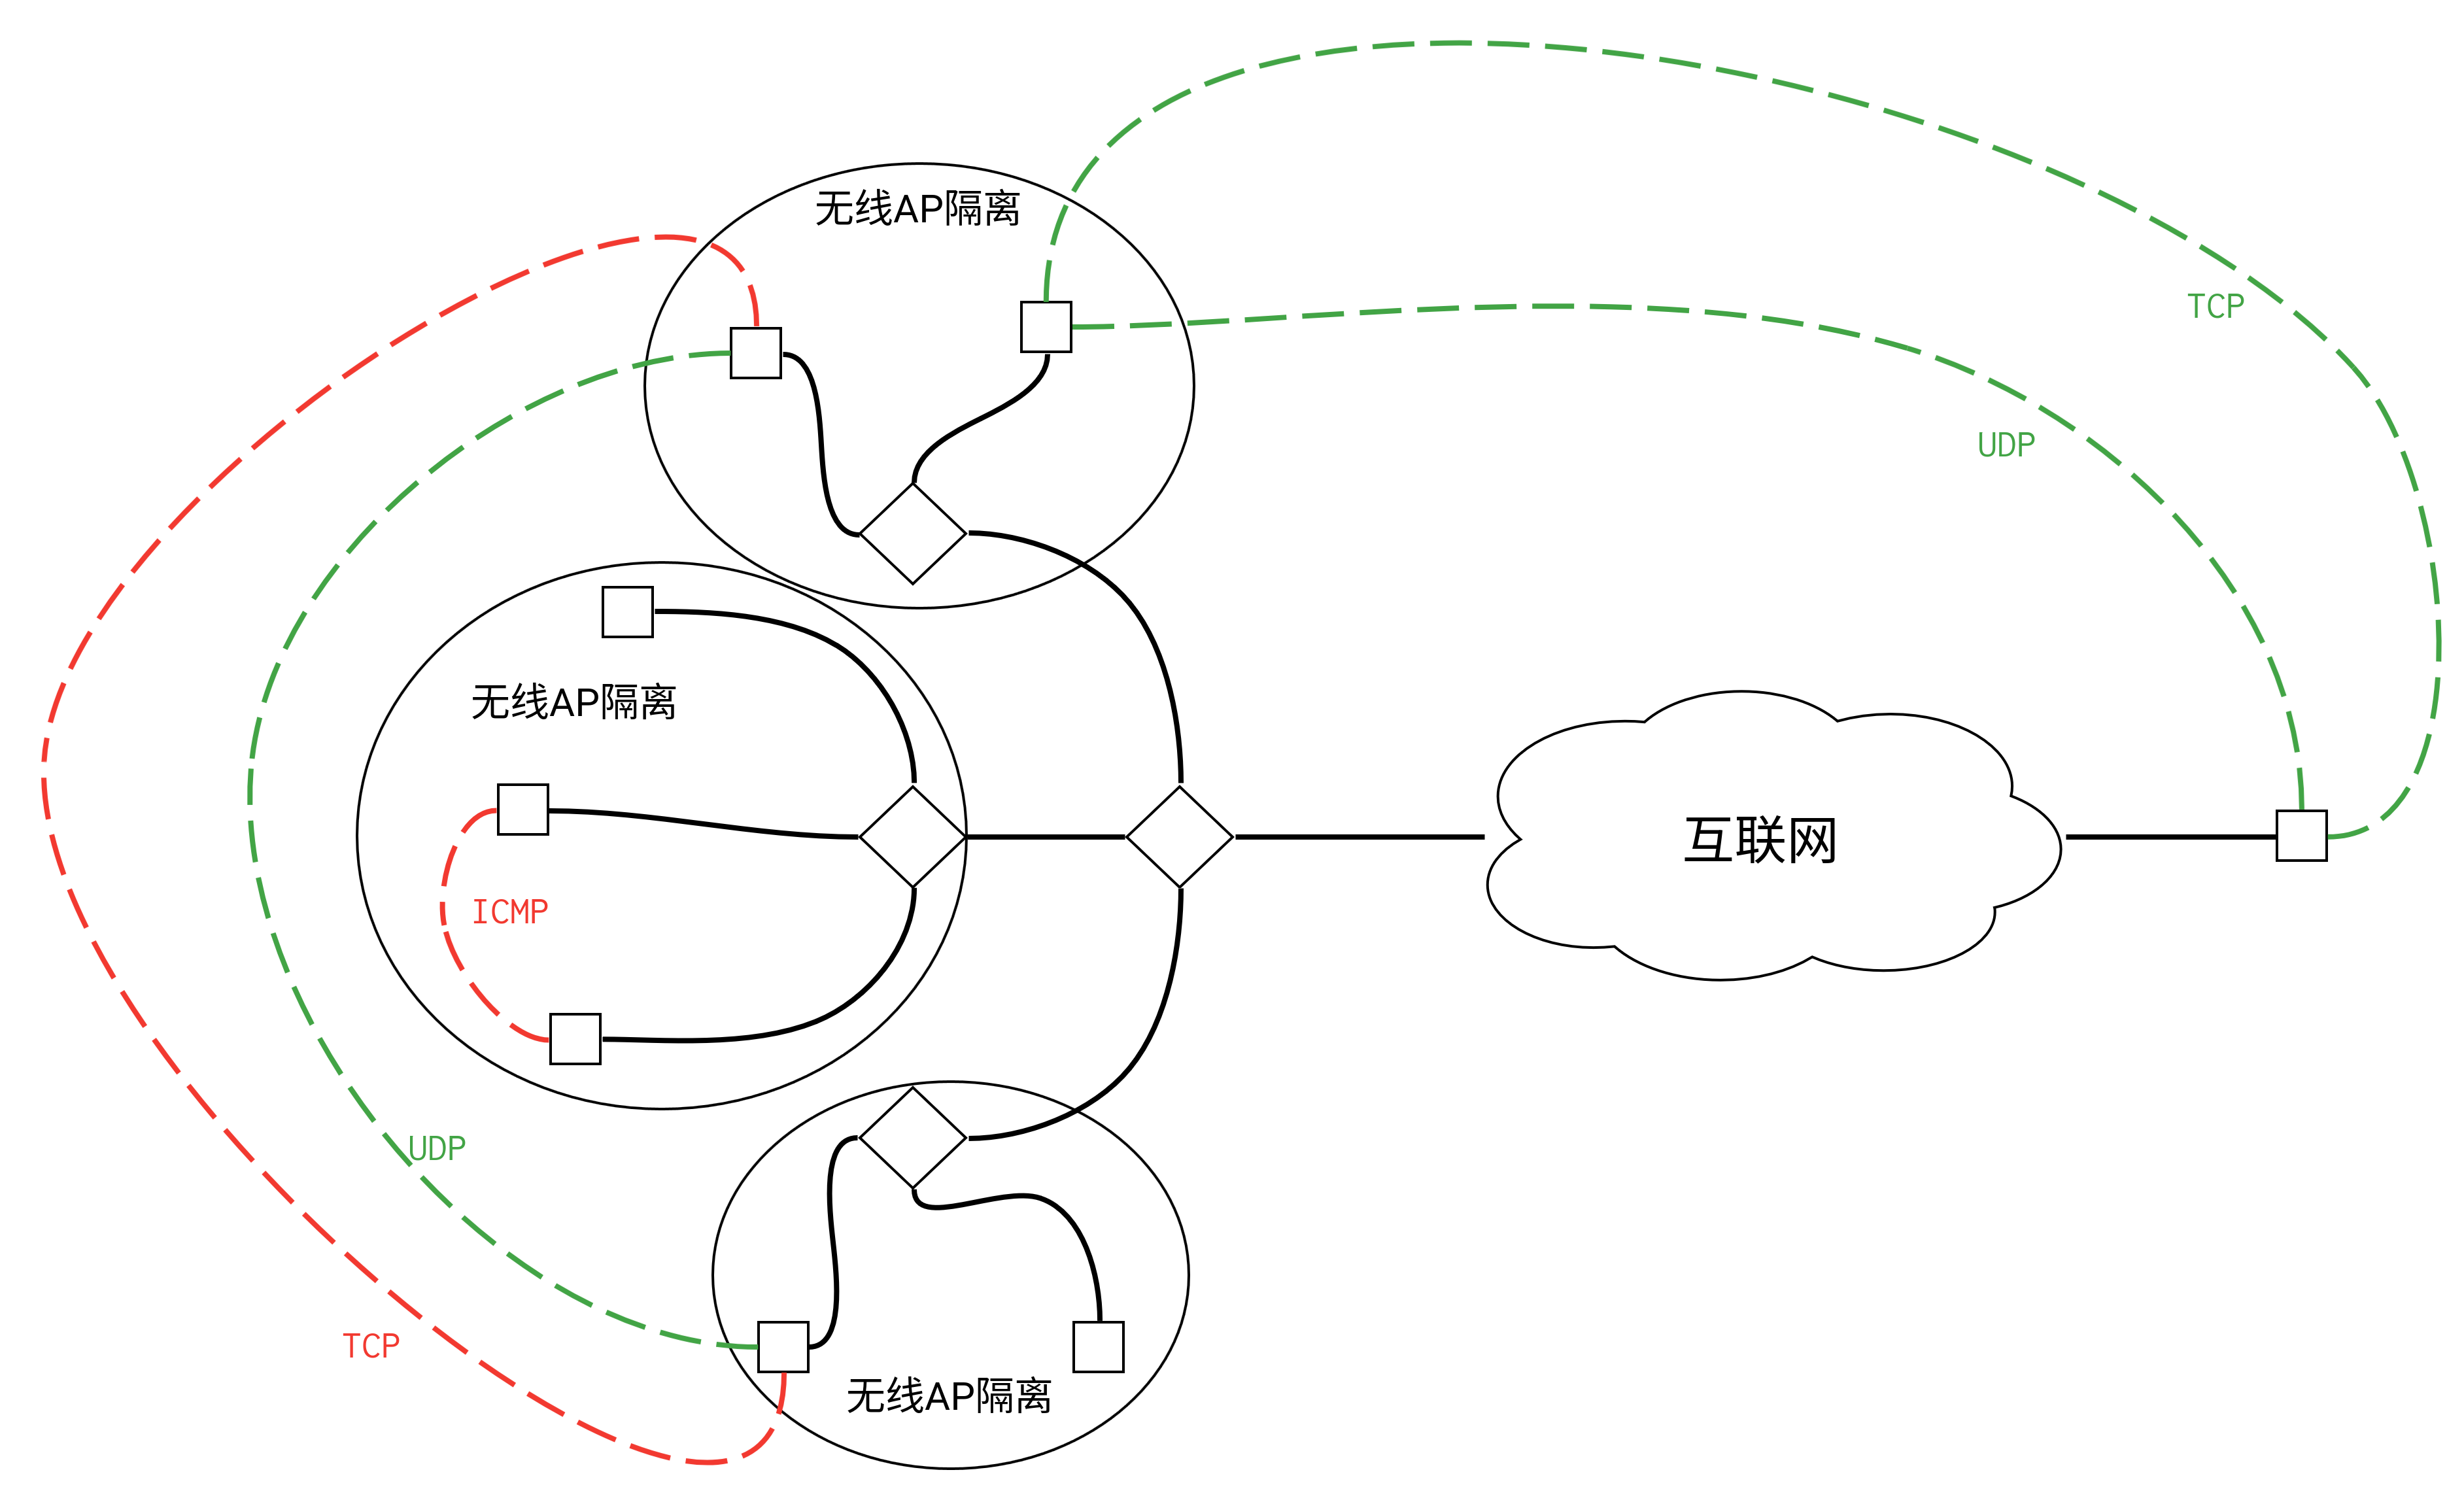
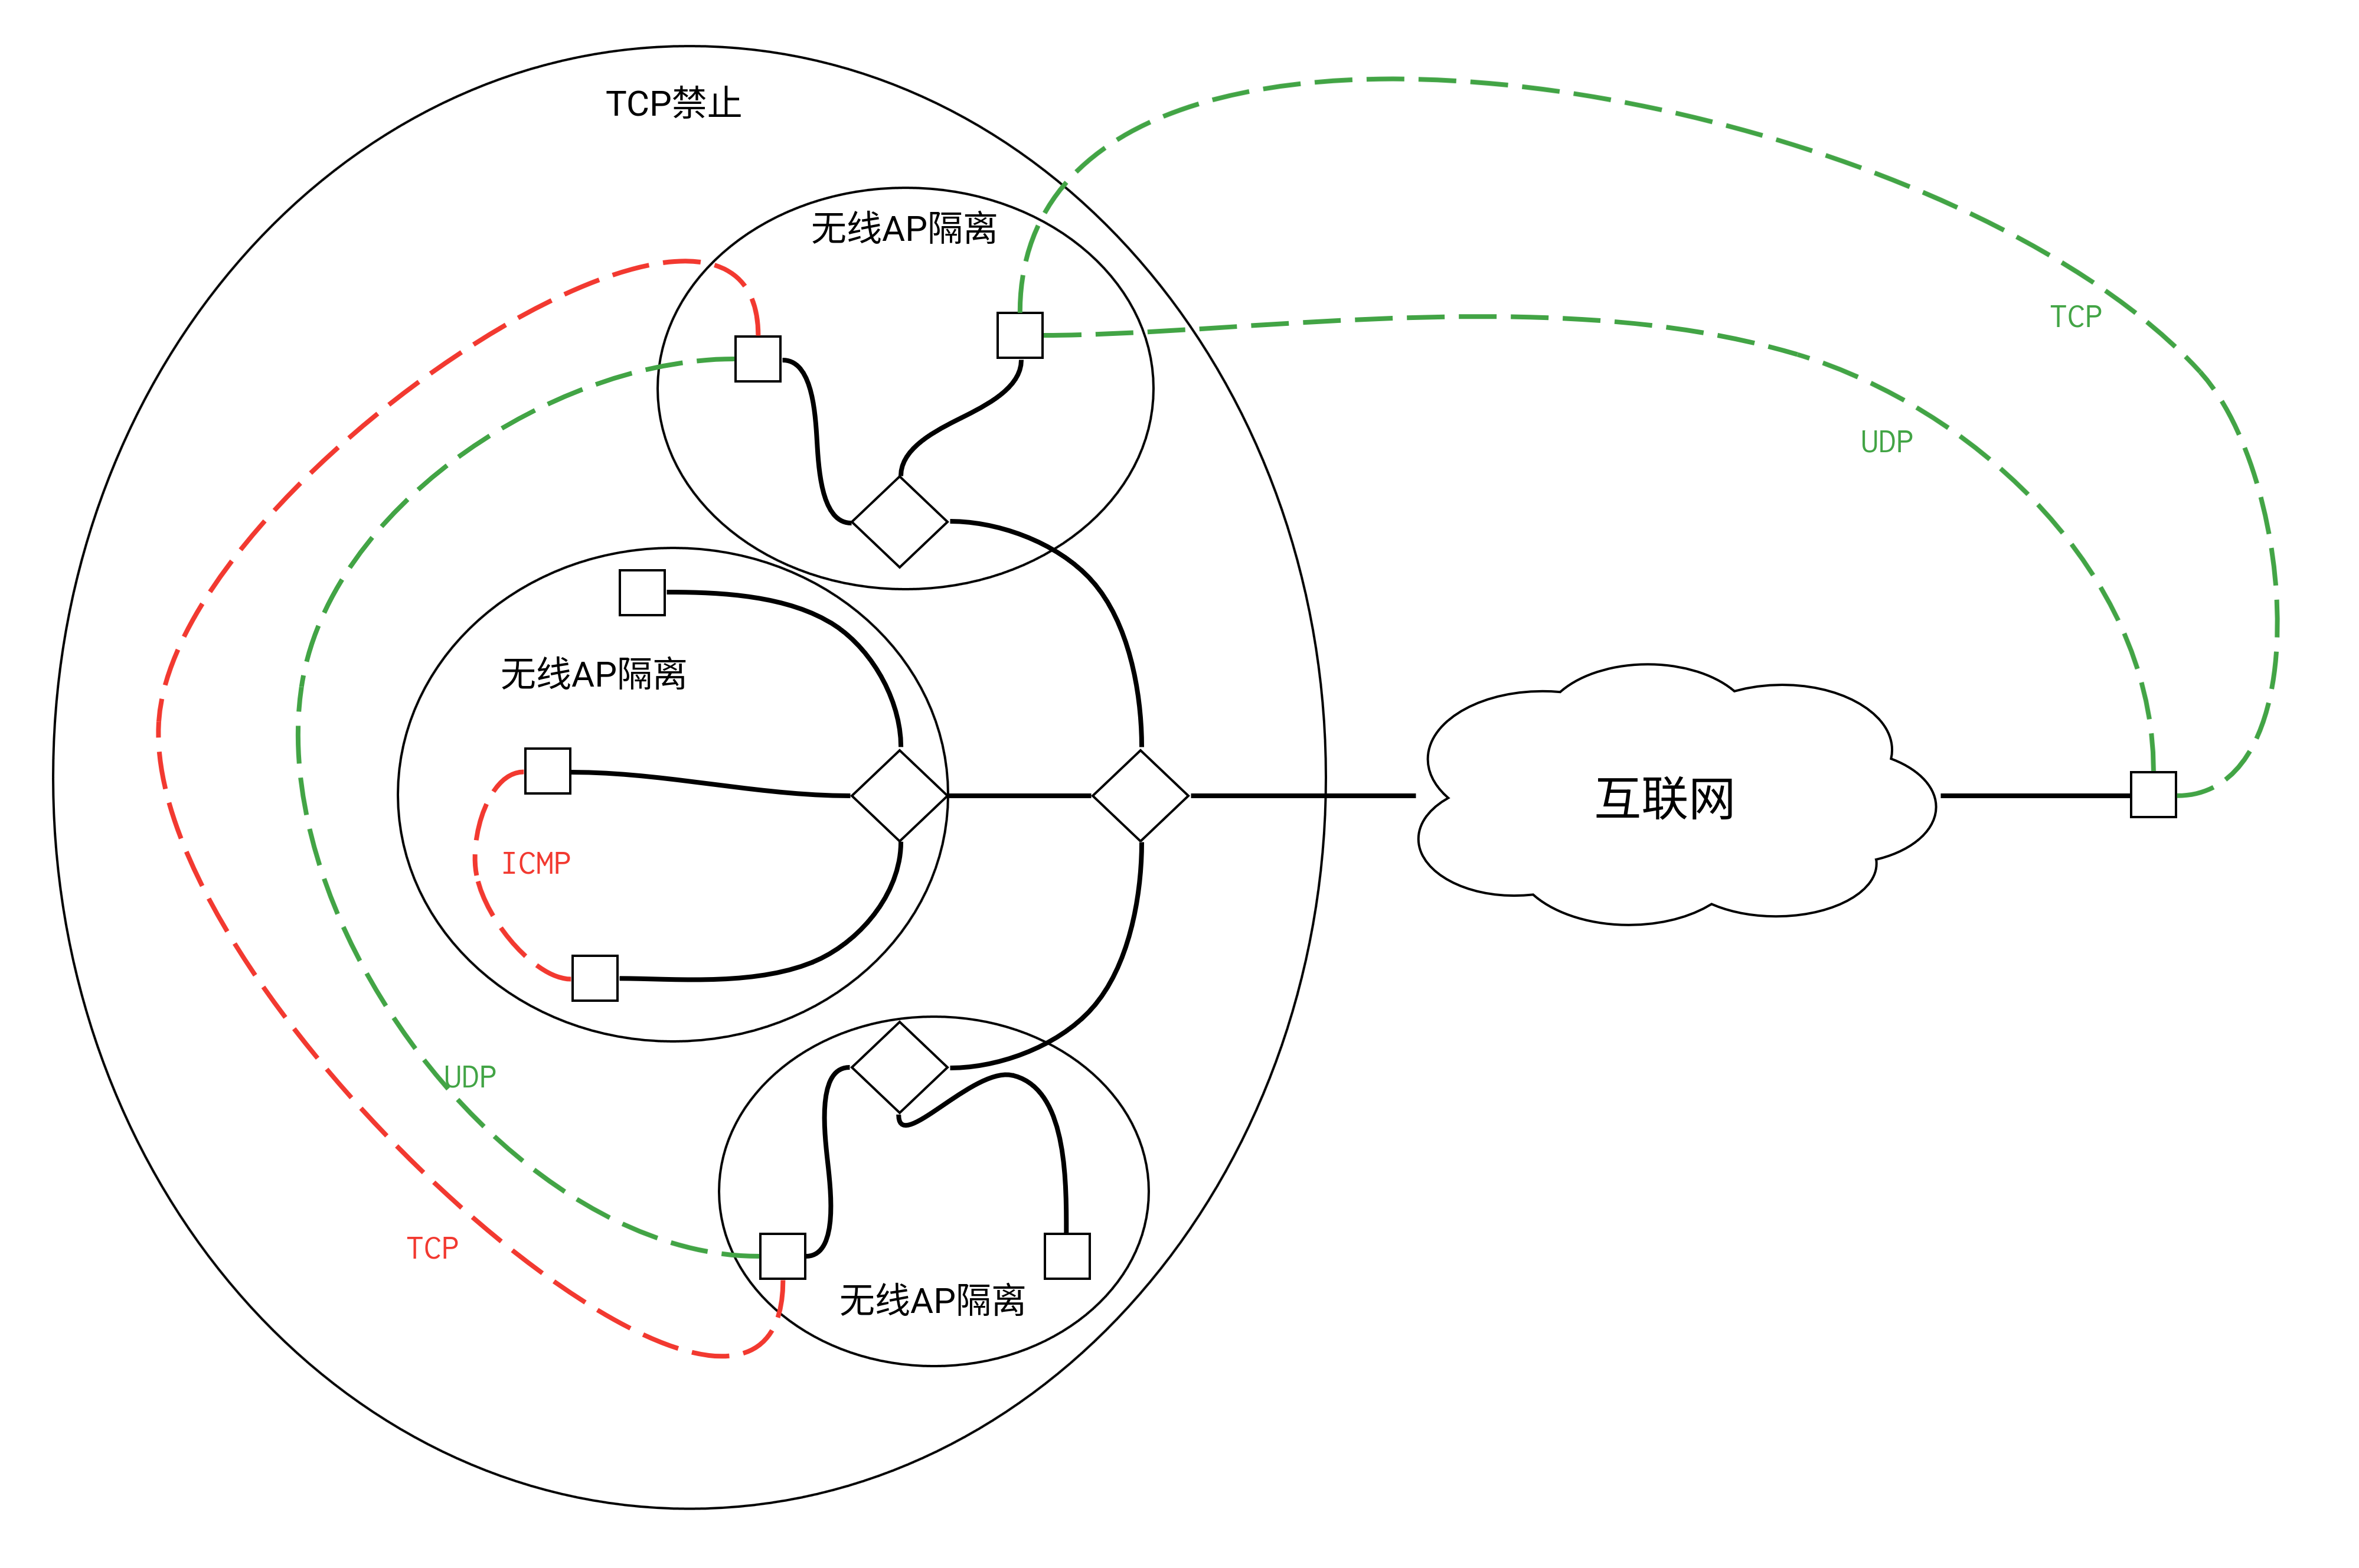
Quartz sync: Jun 12, 2025, 12:06 AM

diff --git a/content/misc/how-to-deploy-network-scanner-on-linux.md b/content/misc/how-to-deploy-network-scanner-on-linux.md
@@ -1,0 +1,134 @@
+---
+title: 如何在Linux平台部署网络扫描仪
+created: 2025-06-11T22:54:00
+modified:
+---
+## 介绍
+
+如果你用过网络打印机，你能很好地理解网络扫描仪是什么——网络扫描仪就是在一个网络中共享的扫描仪。具体而言它的作用就是，可以在一个扫描仪接入一个主机后，让这个主机所在的网络里的其他主机通过网络连接这个网络扫描仪而不用把这个扫描仪直接接入其他主机。这省去了很多麻烦。
+
+从这里，我们引入几个名词：
+**扫描仪服务器**：扫描仪直接连入的主机。
+**客户端主机**：与扫描仪服务器处于同一网络下，能与扫描仪服务器通信的主机。
+
+这个教程会教会你如何在Ubuntu上部署SANE服务以建立网络打印机，并让客户端顺利连接访问。
+
+参考教程：
+- https://help.ubuntu.com/community/SaneDaemonTutorial
+- https://penguin-breeder.org/sane/saned/
+- https://wiki.archlinux.org/title/SANE
+
+## 前提环境
+
+为了让这个教程更加易懂，先给出一个环境：
+
+1. 网络是192.168.114.0/24
+2. 扫描仪服务器（扫描仪直接接入的主机）的IP地址是192.168.114.1
+3. 扫描仪服务器系统是Ubuntu 22.04 LTS
+
+## 服务器配置
+
+### 确保扫描仪服务器可以连接扫描仪
+
+请确保你的扫描仪服务器可以直接连接这个扫描仪，这可能需要安装这个扫描仪对应的一些驱动程序。
+
+可以通过以下命令查询能连接的扫描仪：
+```sh
+scanimage -L
+```
+
+如果成功会打印如下类似的信息：
+```
+device `brother4:bus1;dev5' is a Brother MFC-7480D USB scanner
+```
+### 共享你的扫描仪
+
+打开这个配置文件：
+```sh
+vim /etc/sane.d/saned.conf
+```
+找到如下所示的地方，这里配置的就是客户端可以从哪里访问服务器：
+```
+## Access list
+# A list of host names, IP addresses or IP subnets (CIDR notation) that
+# are permitted to use local SANE devices. IPv6 addresses must be enclosed
+# in brackets, and should always be specified in their compressed form.
+#
+# The hostname matching is not case-sensitive.
+
+#scan-client.somedomain.firm
+#192.168.0.1
+#192.168.0.1/29
+#[2001:db8:185e::42:12]
+#[2001:db8:185e::42:12]/64
+```
+因此我们做如下改动：
+```diff
+	## Access list
+	# A list of host names, IP addresses or IP subnets (CIDR notation) that
+	# are permitted to use local SANE devices. IPv6 addresses must be enclosed
+	# in brackets, and should always be specified in their compressed form.
+	#
+	# The hostname matching is not case-sensitive.
+	
+	#scan-client.somedomain.firm
+	#192.168.0.1
+	#192.168.0.1/29
+	#[2001:db8:185e::42:12]
+	#[2001:db8:185e::42:12]/64
++   192.168.1.0/24
+```
+
+### 启动SANE服务
+
+输入如下命令：
+```sh
+systemctl start saned.socket
+```
+如果你希望它每次开机都会自启动，请输入以下命令：
+```sh
+systemctl enable saned.socket
+```
+## 客户端配置
+
+### Linux
+
+我这里客户端主机的系统也是Ubuntu 22.04 LTS。
+
+首先打开这个配置文件：
+```sh
+vim /etc/sane.d/net.conf
+```
+找到如下所示的地方，这个地方填写的主机就是让你的客户端自动扫描有没有网络扫描仪的主机：
+```
+## saned hosts
+# Each line names a host to attach to.
+# If you list "localhost" then your backends can be accessed either
+# directly or through the net backend.  Going through the net backend
+# may be necessary to access devices that need special privileges.
+```
+所以需要做如下改动：
+```diff
+	## saned hosts
+	# Each line names a host to attach to.
+	# If you list "localhost" then your backends can be accessed either
+	# directly or through the net backend.  Going through the net backend
+	# may be necessary to access devices that need special privileges.
++	192.168.114.1
+```
+现在在你的客户端主机上查询能连接的扫描仪：
+```sh
+scanimage -L
+```
+若一切正常，将会显示如下类似的信息：
+```
+device `net:192.168.114.1:brother4:bus1;dev5' is a Brother MFC-7480D USB scanner
+```
+
+#### 可用软件
+
+scanimage, Document Scanner
+
+### Windows
+
+待补充

diff --git a/content/misc/how-to-communicate-in-a-mysterious-network.md b/content/misc/how-to-communicate-in-a-mysterious-network.md
@@ -5,11 +5,12 @@ modified: 2025-06-10T11:12:00
 ---
 ## 背景
 
-假设我们现在处在一个复杂的无线网络环境下，即这样的无线网络环境：
+现在给你介绍一个奇怪的无线网络环境：
 - 存在无线AP隔离
 - 禁止TCP协议通信
 
-显然这并不是现实生活中我们会遇到的网络环境。此刻你穿越到了一个叫做安东星的地方，这个星球上的网络环境就是如此！此时BVVD向你提出一个难题：在不修改上述网络环境的情况下，如何让两台接入Wi-fi的笔记本电脑进行通信。该怎么办呢？
+显然这并不是现实生活中我们会遇到的网络环境。假设此刻你穿越到了一个叫做安东星的地方，这个星球上的网络环境就是如此！此时BVVD向你提出一个难题：**在不修改上述网络环境的情况下，如何让两台接入Wi-fi的笔记本电脑进行通信。**
+你该怎么办呢？
 
 以防你没有学习过计算机网络，下面介绍一下相关名词。
 
@@ -62,3 +63,8 @@ ip route show | grep default
 有了上述信息，现在可以简单画出来这个网络的示意图了：
 
 ![网络拓扑图](web-struct.png)
+## 解决方案
+
+### 无线AP隔离
+
+解决的